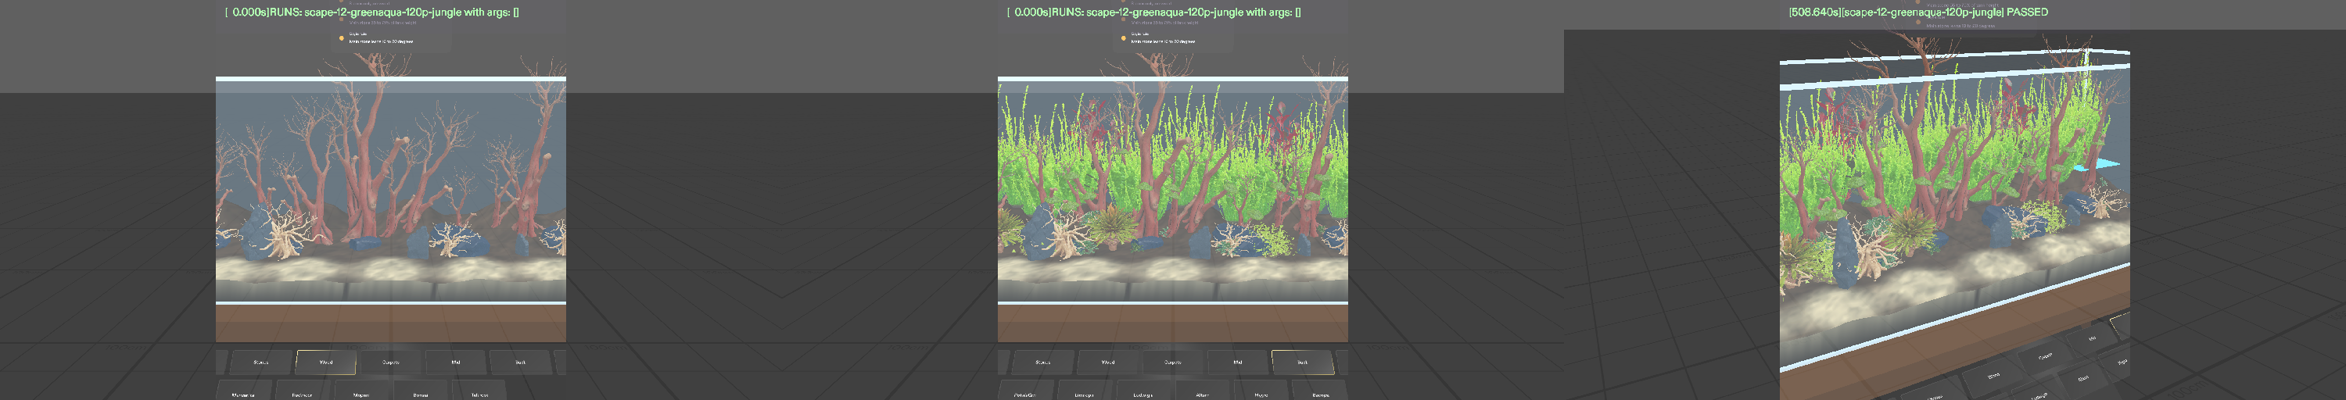
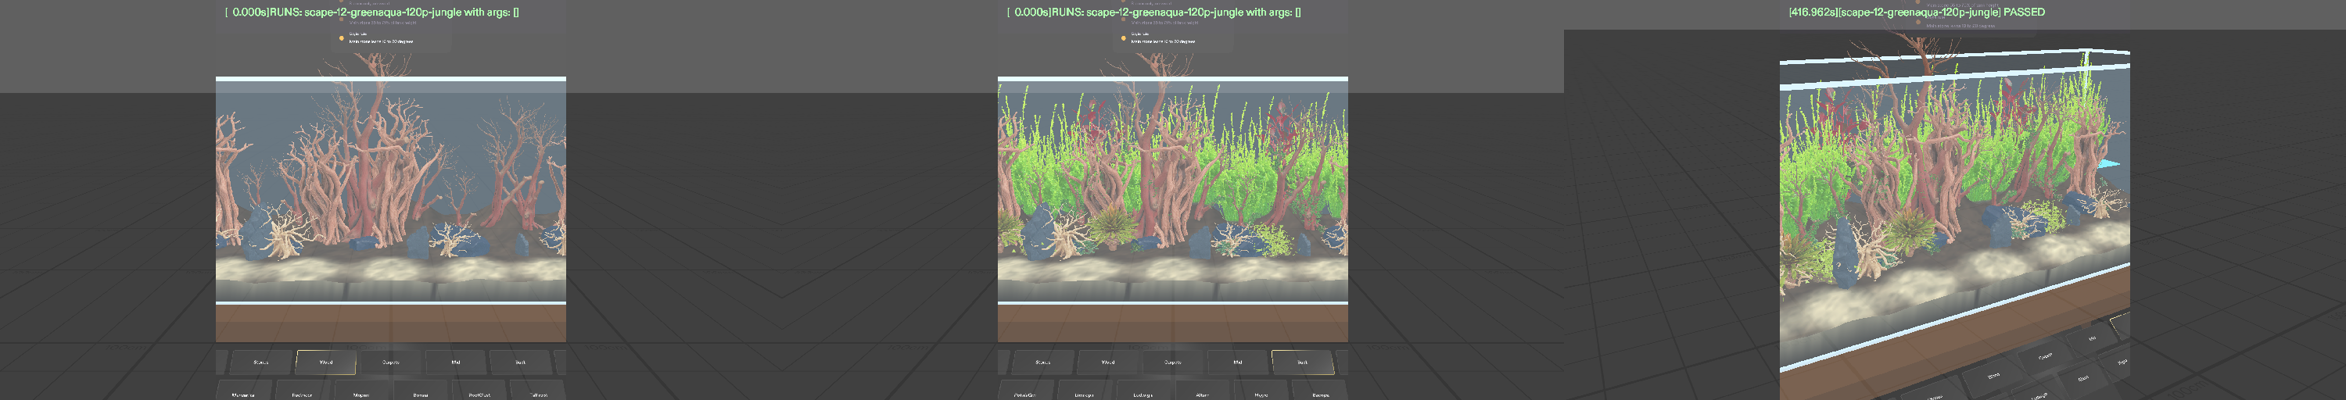
feat: multi-trunk redmoor root cluster for the 120P layout; faster scripted taps
- New Meshy model: root cluster with several twisted trunks and spreading
  roots; the four main roots of the Green Aqua layout use it.
- LEAF interactor taps take an optional settle time; the 120P scenario uses
  100 ms so its 121-piece build stays inside LEAF's 10-minute limit.

diff --git a/Assets/Tests/ScapePlannerGreenAquaScenario.ts b/Assets/Tests/ScapePlannerGreenAquaScenario.ts
@@ -11,20 +11,22 @@ import { ScapePlannerLeafInteractor } from "./ScapePlannerLeafInteractor";
 
 /** Pause after the hardscape so a recording can show the before state. */
 const BEFORE_HOLD_MS = 6000;
+/** Settle time after each tap; the build has over a hundred pieces and LEAF stops a scenario at 10 minutes. */
+const FAST_MS = 100;
 
-interface Root { x: number; z: number; size: number; turns: number; lean: number; mirror: boolean }
+interface Root { x: number; z: number; size: number; turns: number; lean: number; mirror: boolean; cluster?: boolean }
 
 const ROOTS: Root[] = [
   { x: -50, z: -6, size: 0, turns: 18, lean: 2, mirror: false },
-  { x: -42, z: -2, size: 1, turns: 20, lean: 1, mirror: true },
+  { x: -42, z: -2, size: 0, turns: 20, lean: 1, mirror: true, cluster: true },
   { x: -34, z: -9, size: -1, turns: 2, lean: 1, mirror: false },
-  { x: -16, z: -5, size: 2, turns: 19, lean: 1, mirror: false },
+  { x: -16, z: -5, size: 1, turns: 19, lean: 1, mirror: false, cluster: true },
   { x: -8, z: -9, size: 2, turns: 5, lean: 1, mirror: true },
-  { x: 0, z: -4, size: 1, turns: 7, lean: 2, mirror: false },
+  { x: 0, z: -4, size: 0, turns: 7, lean: 1, mirror: false, cluster: true },
   { x: 8, z: -11, size: 0, turns: 4, lean: 3, mirror: true },
   { x: 26, z: -7, size: 0, turns: 6, lean: 2, mirror: false },
   { x: 36, z: -10, size: 1, turns: 1, lean: 1, mirror: true },
-  { x: 48, z: -5, size: 2, turns: 7, lean: 1, mirror: false },
+  { x: 46, z: -5, size: 1, turns: 7, lean: 1, mirror: false, cluster: true },
   // Thinner roots filling the clusters
   { x: -46, z: -12, size: -2, turns: 10, lean: 3, mirror: true },
   { x: -24, z: -10, size: -1, turns: 21, lean: 2, mirror: false },
@@ -47,11 +49,11 @@ export class ScapePlannerGreenAquaScenario extends Scenario {
   private async tap(name: string, times: number = 1): Promise<void> {
     for (let i = 0; i < times; i++) {
       try {
-        await this.interactor.tapButton(name);
+        await this.interactor.tapButton(name, FAST_MS);
       } catch (e) {
         print("[GA] skipped " + name + ": " + e);
       }
-      await sleep(120);
+      await sleep(20);
     }
   }
 
@@ -59,7 +61,7 @@ export class ScapePlannerGreenAquaScenario extends Scenario {
   private async put(id: string, x: number, z: number, size: number = 0, turns: number = 0, lean: number = 0, mirror: boolean = false): Promise<number> {
     const index = this.main.pieceCount;
     try {
-      await this.interactor.tapPiece(id);
+      await this.interactor.tapPiece(id, FAST_MS);
     } catch (e) {
       print("[GA] skipped " + id + ": " + e);
       return -1;
@@ -79,7 +81,7 @@ export class ScapePlannerGreenAquaScenario extends Scenario {
     if (host < 0) return;
     this.main.selectIndex(host);
     try {
-      await this.interactor.tapPiece(id);
+      await this.interactor.tapPiece(id, FAST_MS);
     } catch (e) {
       print("[GA] skipped " + id + ": " + e);
     }
@@ -108,7 +110,7 @@ export class ScapePlannerGreenAquaScenario extends Scenario {
     await this.put("seiryu", 30, 7, -2, 8);
 
     const roots: number[] = [];
-    for (const r of ROOTS) roots.push(await this.put("tallroot", r.x, r.z, r.size, r.turns, r.lean, r.mirror));
+    for (const r of ROOTS) roots.push(await this.put(r.cluster ? "rootcluster" : "tallroot", r.x, r.z, r.size, r.turns, r.lean, r.mirror));
     await this.put("spiderwood", -26, 6, -1, 3);
     await this.put("spiderwood", 14, 7, -1, 17, 0, true);
     await this.put("spiderwood", -44, 6, -1, 9);

diff --git a/Assets/Tests/ScapePlannerLeafInteractor.ts b/Assets/Tests/ScapePlannerLeafInteractor.ts
@@ -8,21 +8,21 @@ export const PIECE_NAMES: string[] = CATALOG.map((e) => pieceObjectName(e));
 
 export class ScapePlannerLeafInteractor extends DefaultLeafInteractor {
   /** Pinch a palette button by its scene-object name, e.g. "Button_seiryu". */
-  async tapButton(buttonName: string): Promise<void> {
+  async tapButton(buttonName: string, settleMs: number = 400): Promise<void> {
     const button = findInteractablesByName(buttonName, undefined, true)[0];
     if (!button) {
       throw new Error('Button "' + buttonName + '" not found or not enabled');
     }
     await this.trigger(button);
-    await sleep(400);
+    await sleep(settleMs);
   }
 
   /** Place a catalogue piece: open its palette tab first, then pinch its button. */
-  async tapPiece(id: string): Promise<void> {
+  async tapPiece(id: string, settleMs: number = 400): Promise<void> {
     const entry = catalogEntry(id);
     if (!entry) throw new Error('Catalogue id "' + id + '" not found');
-    await this.tapButton("Tab_" + entry.tab);
-    await this.tapButton("Button_" + id);
+    await this.tapButton("Tab_" + entry.tab, settleMs);
+    await this.tapButton("Button_" + id, settleMs);
   }
 
   /** Grab the first piece with this name and drag it by a world-space delta (cm). */

diff --git a/Assets/Scripts/ScapePlannerCatalog.ts b/Assets/Scripts/ScapePlannerCatalog.ts
@@ -103,6 +103,7 @@ export const CATALOG: CatalogEntry[] = [
   wood("redmoor", "Redmoor", "Redmoor root", "redmoor", 26, 22, 20),
   wood("mopani", "Mopani", "Mopani wood", "mopani", 24, 12, 14),
   wood("bonsai", "Bonsai", "Bonsai driftwood", "bonsai", 24, 28, 18),
+  wood("rootcluster", "RootClust", "Redmoor root cluster", "rootcluster", 24, 40, 20),
   wood("tallroot", "Tall root", "Redmoor root, tall", "tallroot", 14, 40, 12, new vec4(0.46, 0.3, 0.24, 1)),
   // ── carpets (foreground) ──
   carpet("carpet", "MonteCarl", "Monte Carlo", 10, { style: "leaves", heightCm: 2.2, density: 2.2, baseRgb: [0.16, 0.42, 0.12], tipRgb: [0.45, 0.8, 0.3] }, 3),

diff --git a/Assets/Scripts/ScapePlannerMain.ts b/Assets/Scripts/ScapePlannerMain.ts
@@ -75,6 +75,7 @@ export class ScapePlannerMain extends BaseScriptComponent {
   @input prefabSlate!: ObjectPrefab;
   @input prefabTallroot!: ObjectPrefab;
   @input prefabGreenstems!: ObjectPrefab;
+  @input prefabRootcluster!: ObjectPrefab;
 
   @ui.label("Placement")
   @input
@@ -498,6 +499,7 @@ export class ScapePlannerMain extends BaseScriptComponent {
       case "slate": return this.prefabSlate;
       case "tallroot": return this.prefabTallroot;
       case "greenstems": return this.prefabGreenstems;
+      case "rootcluster": return this.prefabRootcluster;
     }
     return null;
   }
